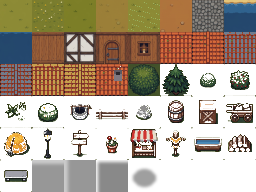
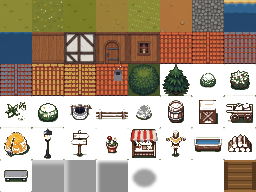
feat: Sungai dengan jembatan dan air yang bergerak
WaterLayer baru di antara layer dasar dan bayangan memakai shader shimmer;
kolam dan sungai pindah ke layer itu, sementara ObjectLayer menahan tile
WATER_BLOCK (transparan tapi ber-collision) supaya GridPath tetap menolak air.
Jembatan papan non-solid dibuka di x=21..22, segaris dengan gang penghubung,
plus jalur pantai selatan — tanpa jalur itu tepi hutan yang dirobek acak
menutup strip di antara sungai dan hutan selatan.

Dua cacat yang hanya terlihat saat diuji: clear_path_objects ikut menghapus air
dan jembatan karena lantainya DIRT (kini dikecualikan), dan POSITION tidak ada
di canvas_item fragment Godot 4 sehingga shader memakai UV atlas; dengan
strength 0.30 shimmer hanya mengubah 4/255 level, dinaikkan ke 0.75 (terukur
4931 sampel berubah, delta maks 52).

Changed region(s): [[0.875, 0.8125, 1.0, 1.0]]

diff --git a/tools/build_village_art.py b/tools/build_village_art.py
@@ -39,7 +39,8 @@ TILES = [
     ("flower_pot", True), ("stall", True), ("dummy", True), ("trough", True),
     ("logs", True), ("bench", True),
     ("shadow_bottom", False), ("shadow_right", False), ("shadow_corner", False),
-    ("shadow_prop", False), ("empty", False),
+    ("shadow_prop", False), ("empty", False), ("water_block", True),
+    ("bridge", False),
 ]
 
 NAME_TO_IDX = {name: i for i, (name, _) in enumerate(TILES)}
@@ -173,6 +174,24 @@ def key_grass(tile, ref, hard=52, soft=74):
     return out
 
 
+def make_bridge():
+    """Jembatan papan: dua rel samping dan papan melintang, cukup kontras dari
+    air biru di bawahnya."""
+    img = Image.new("RGBA", (CELL, CELL), (0, 0, 0, 0))
+    d = ImageDraw.Draw(img)
+    wood = (122, 82, 44)
+    wood_dark = (86, 56, 30)
+    wood_light = (154, 108, 60)
+    d.rectangle((0, 0, CELL - 1, CELL - 1), fill=wood)
+    for i in range(0, CELL, 4):
+        d.line((0, i, CELL - 1, i), fill=wood_dark if (i // 4) % 2 else wood_light, width=1)
+    d.rectangle((0, 0, 3, CELL - 1), fill=wood_dark)
+    d.rectangle((CELL - 4, 0, CELL - 1, CELL - 1), fill=wood_dark)
+    d.rectangle((0, 0, CELL - 1, 1), fill=wood_light)
+    d.rectangle((0, CELL - 2, CELL - 1, CELL - 1), fill=wood_light)
+    return img
+
+
 def build():
     ground = Image.open(GROUND_SHEET).convert("RGB")
     props = Image.open(PROPS_SHEET).convert("RGB")
@@ -253,6 +272,10 @@ def build():
     for col, row, name in prop_order:
         tile = grass_match(cell(props, col, row), gmed, pmed)
         t[name] = key_grass(tile, gmed)
+
+    # --- air: blok transparan ber-collision untuk layer objek, dan jembatan ---
+    t["water_block"] = Image.new("RGBA", (CELL, CELL), (0, 0, 0, 0))
+    t["bridge"] = make_bridge()
 
     # --- tile kosong transparan: dipakai layer objek supaya sel yang tidak
     # berisi objek tetap tercatat ada (GridPath membaca layer itu) ---
